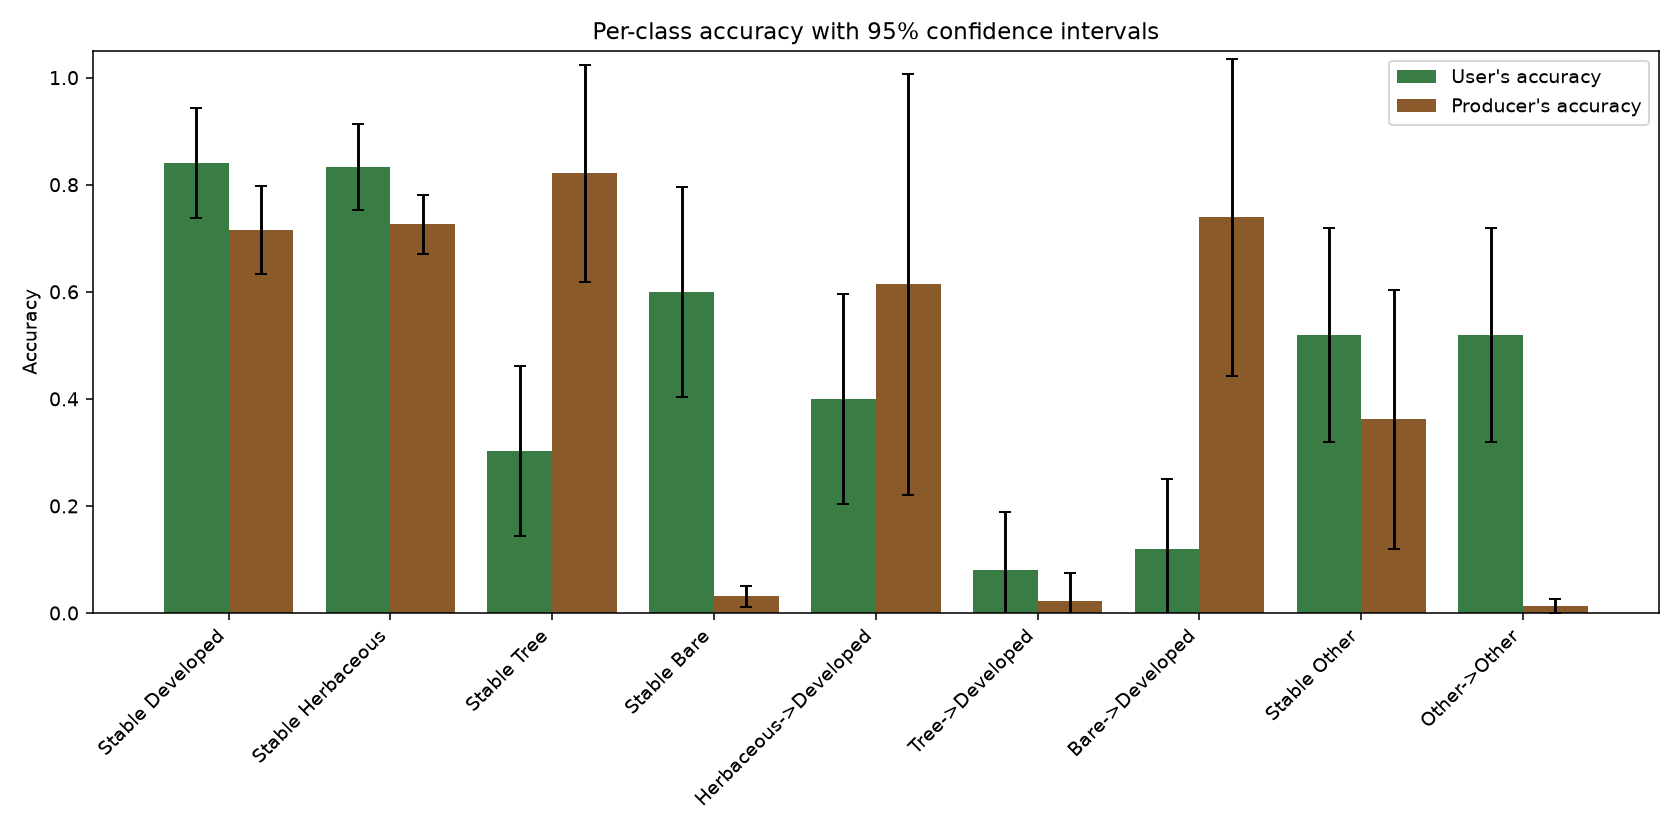
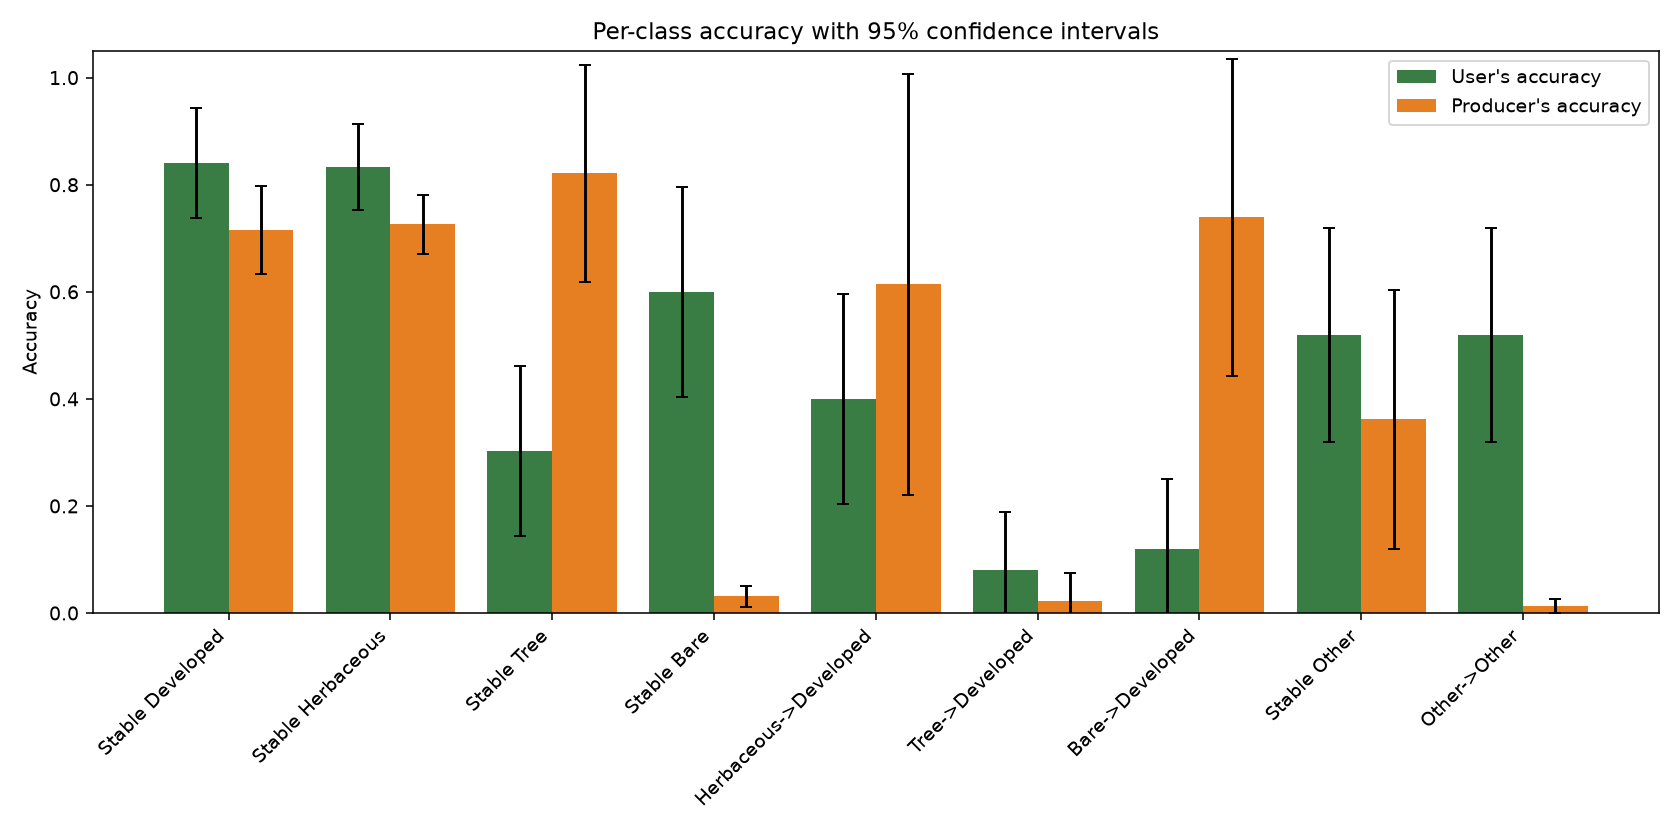
Restyle figures: drop 'reproduced', black cell numbers, shorter matrix, orange producer bars

diff --git a/analyze.py b/analyze.py
@@ -123,19 +123,18 @@ def oa_area_merged(cm: np.ndarray, w: np.ndarray, groups: dict) -> float:
 
 def plot_confusion(cm: np.ndarray) -> None:
     names = [LEGEND[c] for c in CLASSES]
-    fig, ax = plt.subplots(figsize=(9, 8))
-    ax.imshow(cm, cmap="Greens")
+    fig, ax = plt.subplots(figsize=(11, 6))
+    ax.imshow(cm, cmap="Greens", vmax=cm.max() * 1.7, aspect="auto")
     for i in range(len(CLASSES)):
         for j in range(len(CLASSES)):
             v = int(cm[i, j])
             if v:
-                ax.text(j, i, v, ha="center", va="center",
-                        color="white" if i == j else "black", fontsize=9)
+                ax.text(j, i, v, ha="center", va="center", color="black", fontsize=9)
     ax.set_xticks(range(len(CLASSES)), names, rotation=45, ha="right")
     ax.set_yticks(range(len(CLASSES)), names)
     ax.set_xlabel("Reference (truth)")
     ax.set_ylabel("Map (classified)")
-    ax.set_title("Reproduced sample-count confusion matrix (n=317)")
+    ax.set_title("Sample-count confusion matrix (n=317)")
     fig.tight_layout()
     fig.savefig(OUT / "confusion_matrix.png", dpi=140)
     plt.close(fig)
@@ -148,7 +147,7 @@ def plot_accuracy(res: dict) -> None:
     ax.bar(x - 0.2, res["ua"], 0.4, yerr=Z * res["se_ua"], capsize=3,
            label="User's accuracy", color="#3a7d44")
     ax.bar(x + 0.2, res["pa"], 0.4, yerr=Z * res["se_pa"], capsize=3,
-           label="Producer's accuracy", color="#8a5a2b")
+           label="Producer's accuracy", color="#e67e22")
     ax.set_xticks(x, names, rotation=45, ha="right")
     ax.set_ylim(0, 1.05)
     ax.set_ylabel("Accuracy")